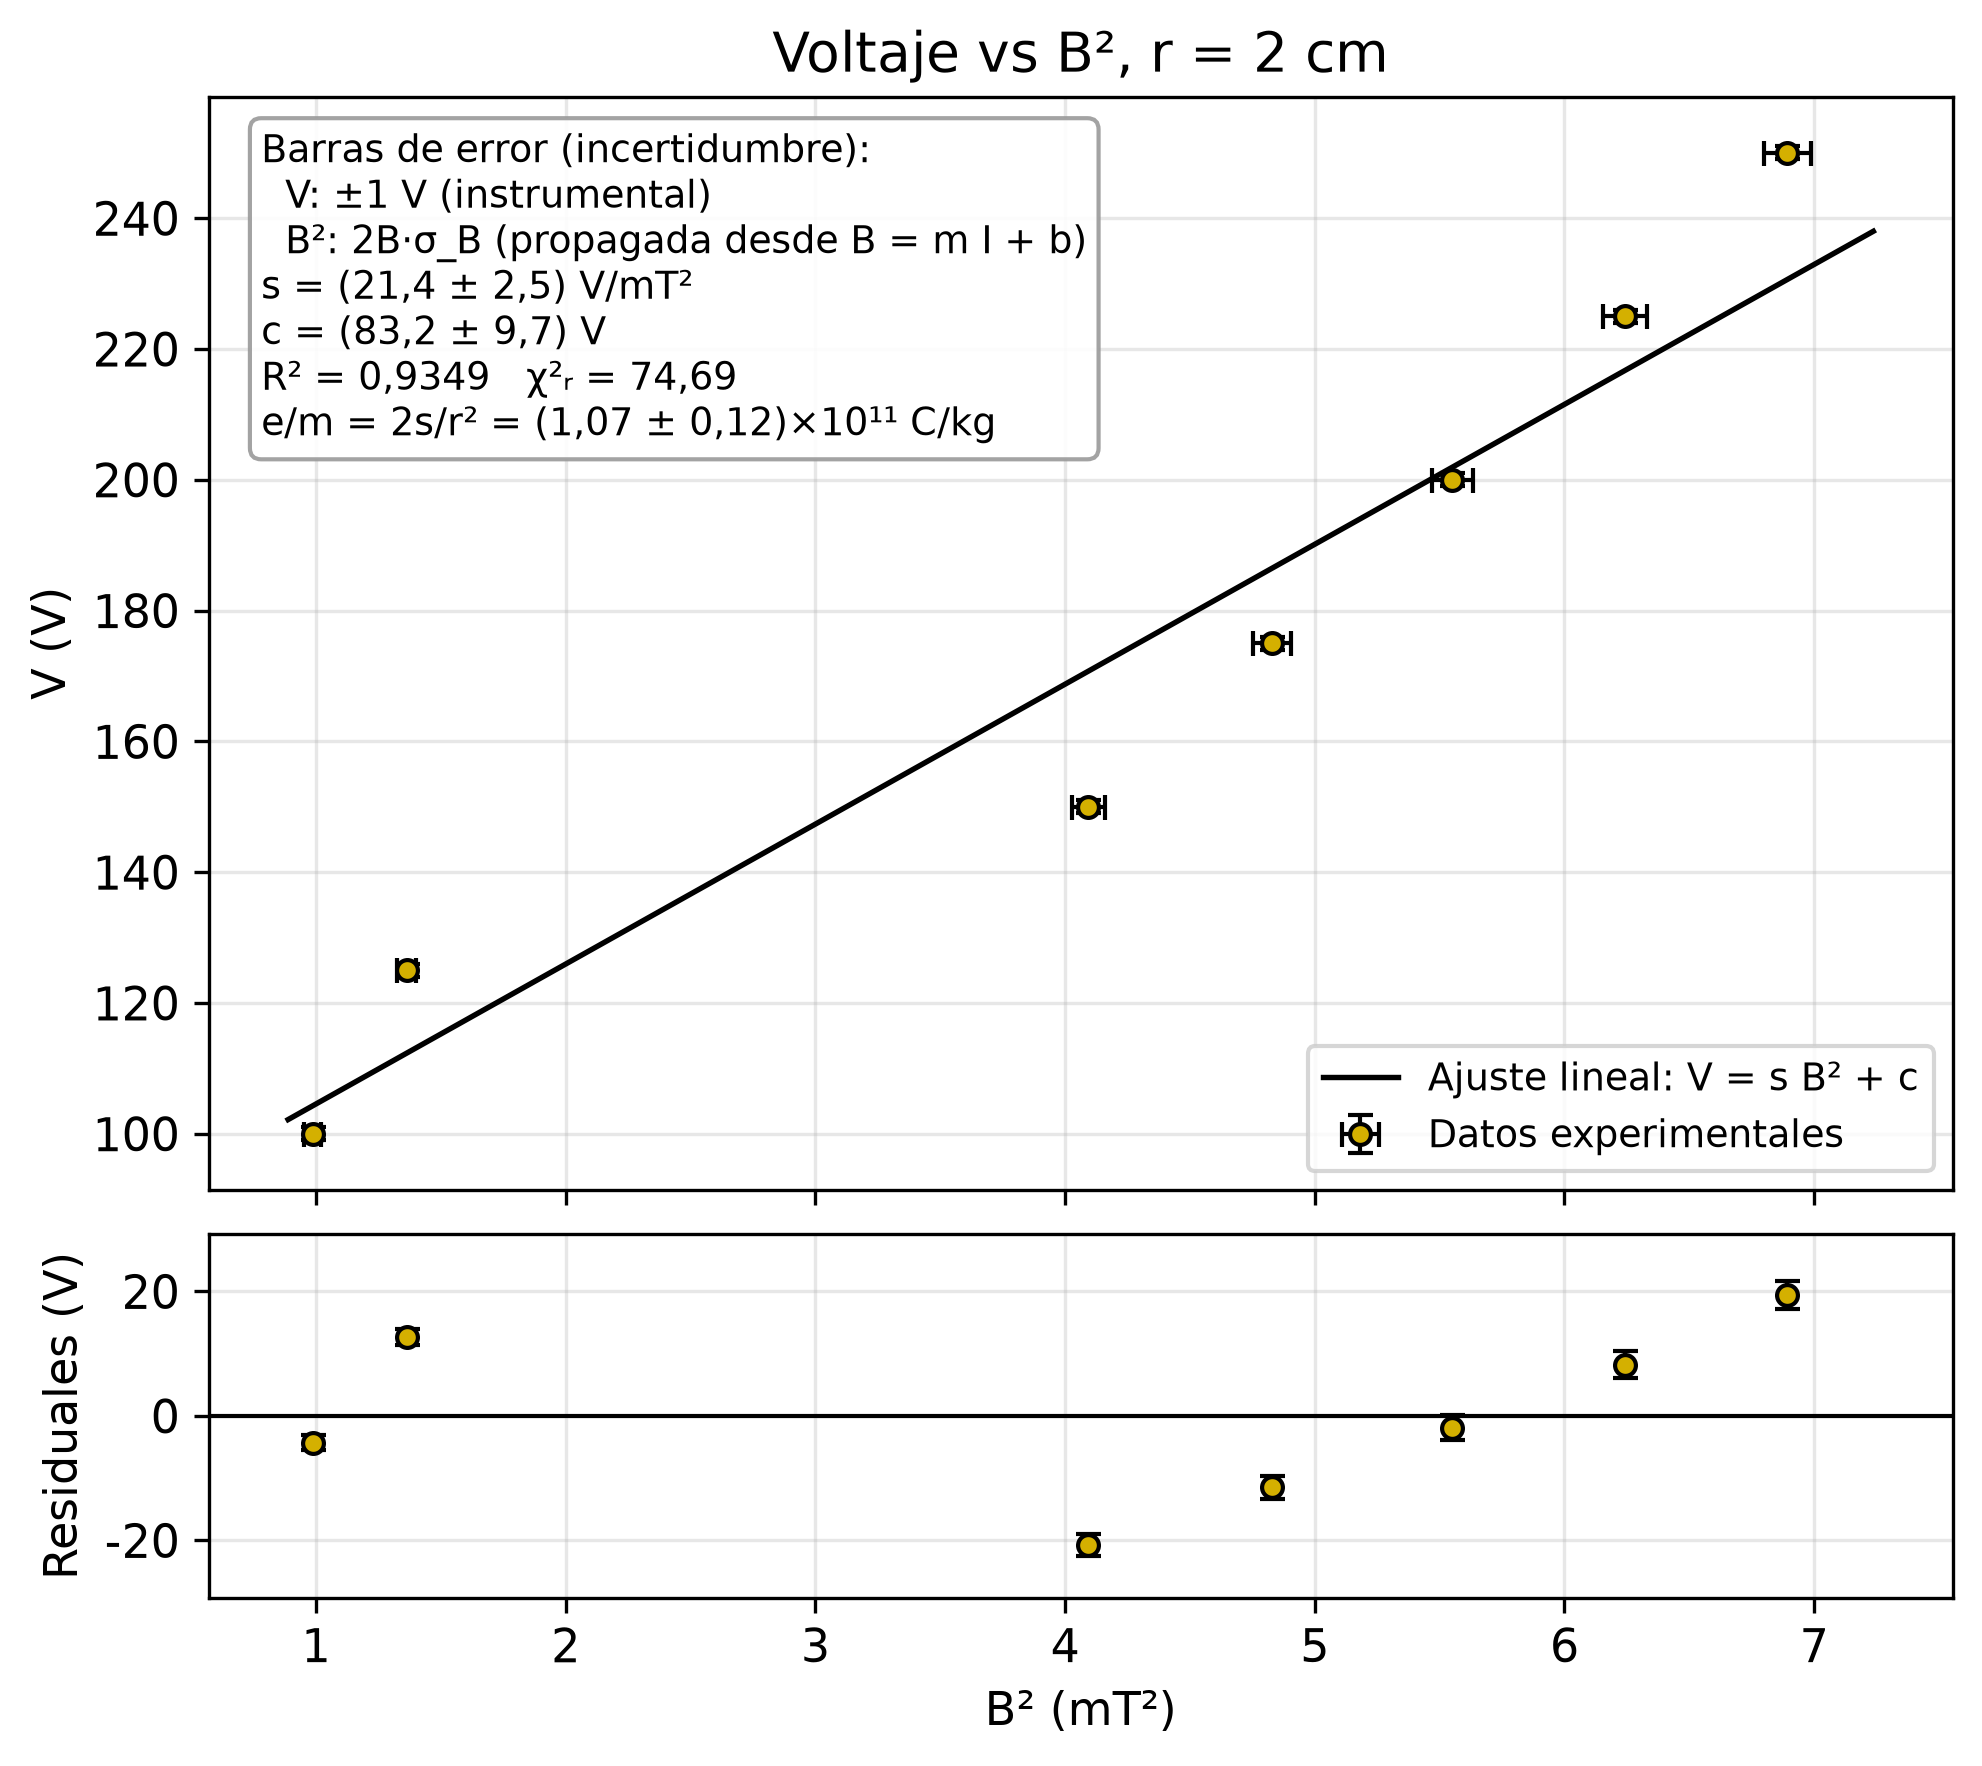
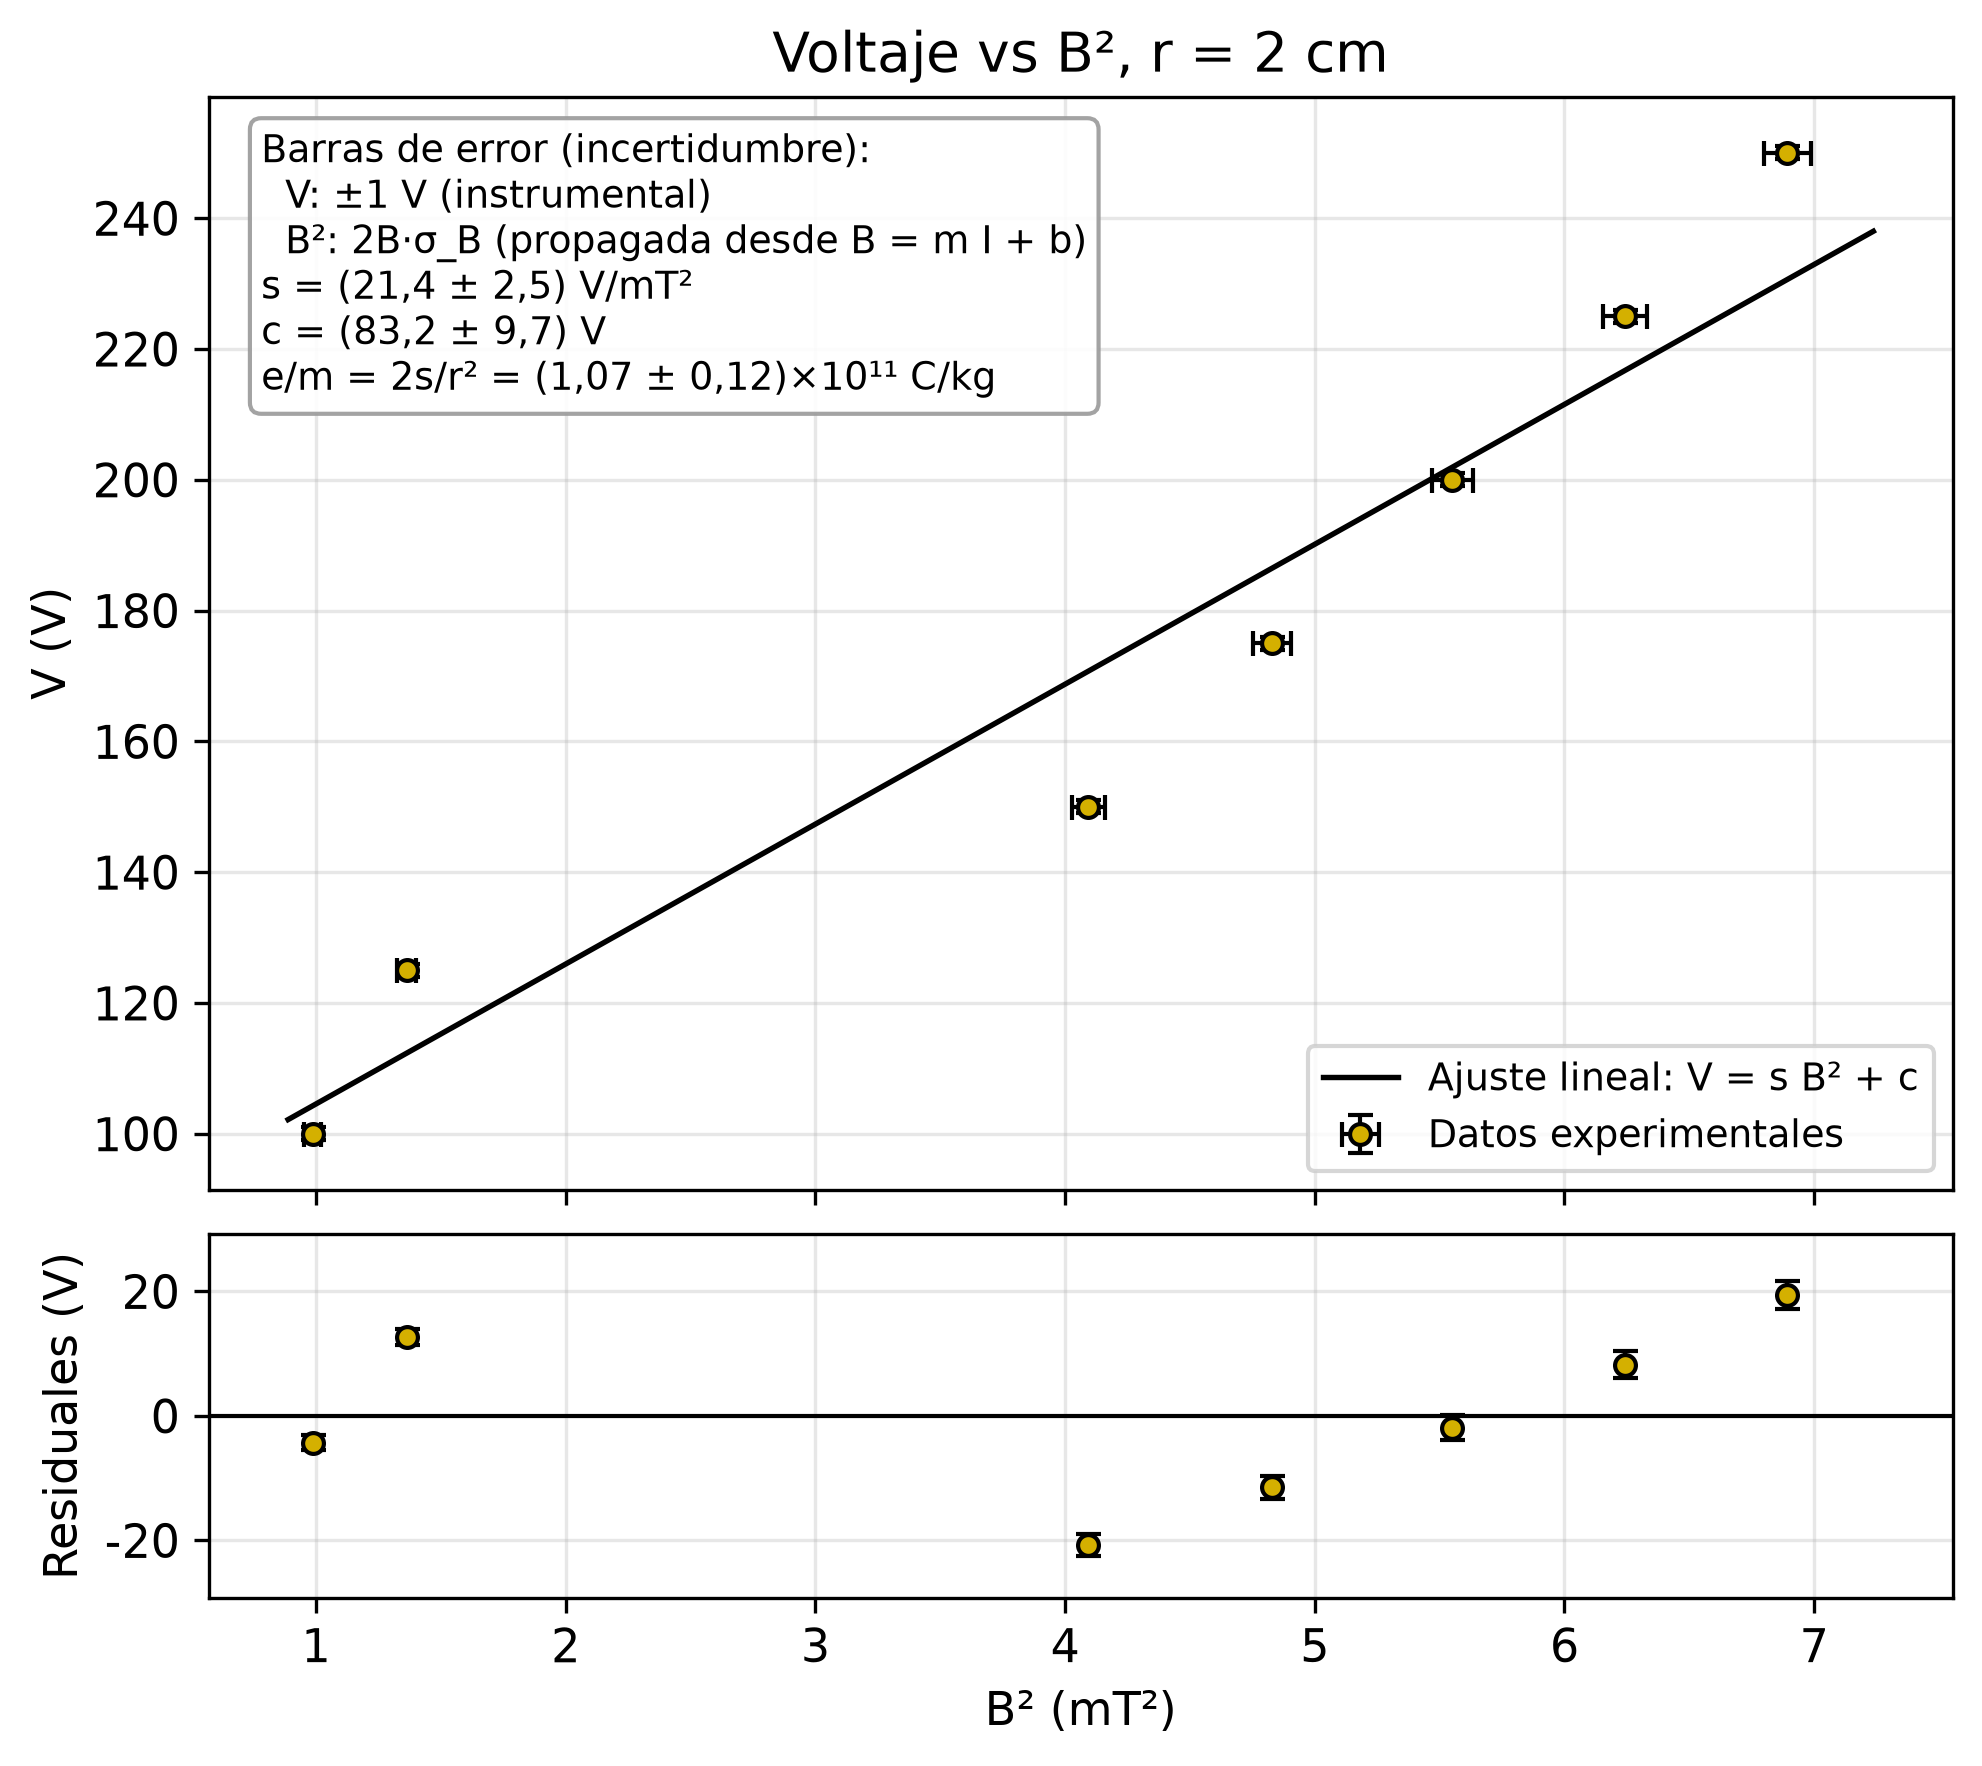
Quitar R² y χ² de las gráficas

Changed region(s): [[0.1231, 0.1869, 0.554, 0.2803]]

diff --git a/analisis.py b/analisis.py
@@ -147,8 +147,7 @@ ax.set_ylim(0, None)
 ax.legend(loc="lower right", fontsize=9)
 caja(ax,
      "Barras de error (incertidumbre instrumental):\n"
-     f"  B: ±{SIGMA_B:g} mT    I: ±{SIGMA_I:g} A".replace(".", ",") +
-     f"\nR² = {r2_cal:.5f}   χ²ᵣ = {chi2_cal:.2f}".replace(".", ","))
+     f"  B: ±{SIGMA_B:g} mT    I: ±{SIGMA_I:g} A".replace(".", ","))
 ax.set_title("Caracterización de la bobina: B vs I")
 
 res = B_CAL - (m * I_CAL + b)
@@ -269,7 +268,6 @@ for r, I_r in RADIOS.items():
          (texto_err + "  B²: 2B·σ_B (propagada desde B = m I + b)\n"
           f"s = {fmt_pm(s, ss)} V/mT²\n"
           f"c = {fmt_pm(c, sc)} V\n"
-          f"R² = {r2:.4f}   χ²ᵣ = {chi2:.2f}\n"
           f"e/m = 2s/r² = {em_txt} C/kg").replace(".", ","))
     res = Vr - (s * B2 + c)
     s_eff = np.sqrt(SIGMA_V**2 + (s * sB2) ** 2)
